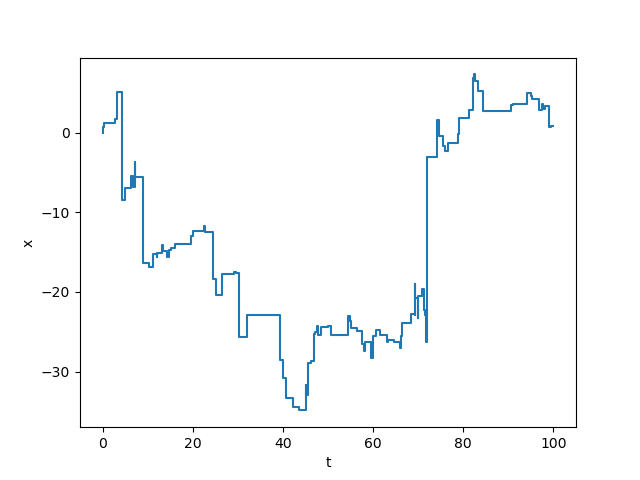
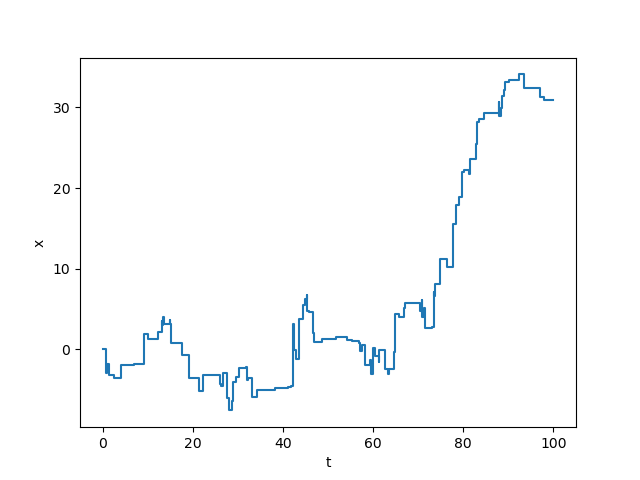
update

diff --git a/source/CTRW.py b/source/CTRW.py
@@ -44,39 +44,39 @@ class CTRW(Trajectory):
 
     def plot(self):
         plt.figure()
-        plt.step(self._t, self._x)
+        plt.step(self._t, self._x, where="post")
         plt.show()
 
 
-# if __name__ == "__main__":
-#     m1 = CTRW(100, 1, 2)
-#     t1, x1 = m1.get()
-#     fig1 = plt.figure(1)
-#     plt.step(t1, x1)
-#     plt.xlabel("t")
-#     plt.ylabel("x")
-#     fig1.savefig("../figures/ctrw1.png")
-#
-#     m2 = CTRW(100, 0.7, 2)
-#     t2, x2 = m2.get()
-#     fig2 = plt.figure(2)
-#     plt.step(t2, x2)
-#     plt.xlabel("t")
-#     plt.ylabel("x")
-#     fig2.savefig("../figures/ctrw2.png")
-#
-#     m3 = CTRW(100, 1, 1.5)
-#     t3, x3 = m3.get()
-#     fig3 = plt.figure(3)
-#     plt.step(t3, x3)
-#     plt.xlabel("t")
-#     plt.ylabel("x")
-#     fig3.savefig("../figures/ctrw3.png")
-#
-#     m4 = CTRW(100, 0.7, 1.5)
-#     t4, x4 = m4.get()
-#     fig4 = plt.figure(4)
-#     plt.step(t4, x4)
-#     plt.xlabel("t")
-#     plt.ylabel("x")
-#     fig4.savefig("../figures/ctrw4.png")
+if __name__ == "__main__":
+    m1 = CTRW(100, 1, 2)
+    t1, x1 = m1.get()
+    fig1 = plt.figure(1)
+    plt.step(t1, x1, where="post")
+    plt.xlabel("t")
+    plt.ylabel("x")
+    fig1.savefig("../figures/ctrw1.png")
+
+    m2 = CTRW(100, 0.7, 2)
+    t2, x2 = m2.get()
+    fig2 = plt.figure(2)
+    plt.step(t2, x2, where="post")
+    plt.xlabel("t")
+    plt.ylabel("x")
+    fig2.savefig("../figures/ctrw2.png")
+
+    m3 = CTRW(100, 1, 1.5)
+    t3, x3 = m3.get()
+    fig3 = plt.figure(3)
+    plt.step(t3, x3, where="post")
+    plt.xlabel("t")
+    plt.ylabel("x")
+    fig3.savefig("../figures/ctrw3.png")
+
+    m4 = CTRW(100, 0.7, 1.5)
+    t4, x4 = m4.get()
+    fig4 = plt.figure(4)
+    plt.step(t4, x4, where="post")
+    plt.xlabel("t")
+    plt.ylabel("x")
+    fig4.savefig("../figures/ctrw4.png")

diff --git a/source/levy_process.py b/source/levy_process.py
@@ -66,11 +66,11 @@ class PoissonProcess(Trajectory):
 
     def plot(self):
         plt.figure()
-        plt.step(self._t, self._x)
+        plt.step(self._t, self._x, where="post")
         plt.show()
 
 
-# if __name__ == "__main__":
+if __name__ == "__main__":
 #     bm = StableProcess(100, 2, "symmetric")
 #     t1, x1 = bm.get()
 #     fig1 = plt.figure(1)
@@ -95,10 +95,10 @@ class PoissonProcess(Trajectory):
 #     plt.ylabel("S")
 #     fig3.savefig("../figures/subordinator.png")
 #
-#     sp = PoissonProcess(100, 1)
-#     t, x = sp.get()
-#     fig = plt.figure()
-#     plt.step(t, x)
-#     plt.xlabel("t")
-#     plt.ylabel("N")
-#     fig.savefig("../figures/poisson.png")
+    sp = PoissonProcess(100, 1)
+    t, x = sp.get()
+    fig = plt.figure()
+    plt.step(t, x, where="post")
+    plt.xlabel("t")
+    plt.ylabel("N")
+    fig.savefig("../figures/poisson.png")

diff --git a/source/multiple_states.py b/source/multiple_states.py
@@ -46,7 +46,7 @@ class FCP(Trajectory):
 
     def plot(self):
         plt.figure()
-        plt.step(self._t, self._x)
+        plt.step(self._t, self._x, where="post")
         plt.show()
 
 
@@ -93,11 +93,19 @@ class LW(Trajectory):
                 current_state = next_state
 
 
-# if __name__ == "__main__":
-#     init = [1/3, 1/3, 1/3]
-#     M = [[1/3, 1/3, 1/3],
-#          [1/4, 1/2, 1/4],
-#          [1/6, 1/3, 1/2]]
+if __name__ == "__main__":
+    init = [1/3, 1/3, 1/3]
+    M = [[1/3, 1/3, 1/3],
+         [1/4, 1/2, 1/4],
+         [1/6, 1/3, 1/2]]
+    a = [0.5, 0.3, 0.7]
+    m = FCP(100, a, M, init_state=init)
+    t, x = m.get()
+    fig = plt.figure()
+    plt.step(t,x,where="post")
+    plt.xlabel("t")
+    plt.ylabel("x")
+    fig.savefig("../figures/fcp.png")
 #     v = [1, 3, 5]
 #     a = [0.7, 1, 1.6]
 #     # M = [[0.3, 0.5, 0.2],

diff --git a/sample/demo.py b/sample/demo.py
@@ -3,12 +3,11 @@
 # @Time : 2021/11/30 14:29
 # import sys
 # sys.path.append("..")
-from source.CTRW import CTRW
-from source.trajectory import Trajectory
+import numpy as np
 import matplotlib.pyplot as plt
 
-model = CTRW(100, 0.8, 1.5)
-t, x = model.get()
-fig = plt.figure()
-plt.step(t, x)
-fig.savefig("../figure/ctrw.eps")
+t = np.array([0, 1, 2, 3, 4])
+x = np.array([0, 1, 2, 3, 3])
+plt.step(t, x, where="post")
+
+plt.show()
